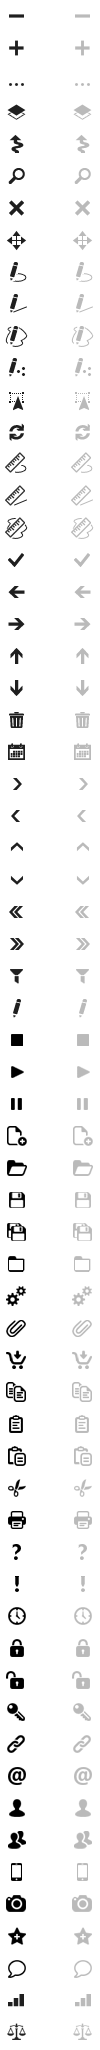
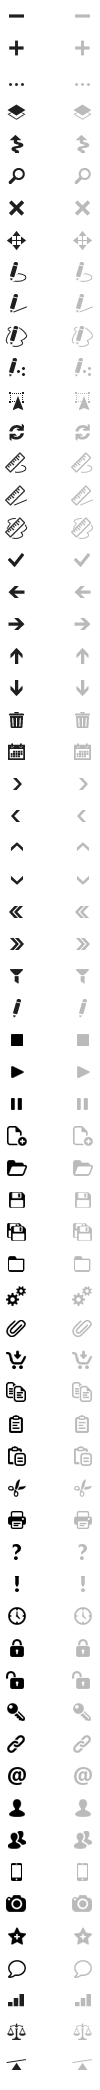
- Added "Swing" AppIcon.

Changed region(s): [[0.06, 0.0, 0.27, 0.999], [0.72, 0.0312, 0.93, 0.999]]

diff --git a/src/ng_wineight/wineight.js b/src/ng_wineight/wineight.js
@@ -487,7 +487,8 @@ var WinEightControls = {
       Favorites: 60,
       Chat: 61,
       Chart: 62,
-      Balance: 63
+      Balance: 63,
+      Swing:64
     },{
       // automaticaly created from AppIcons
     }
